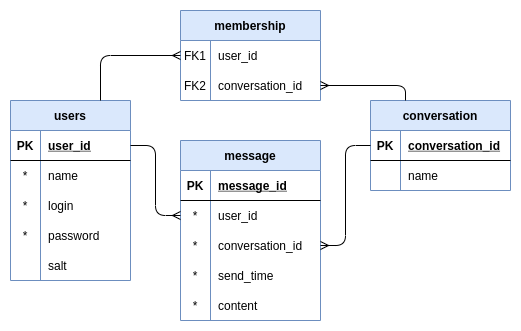
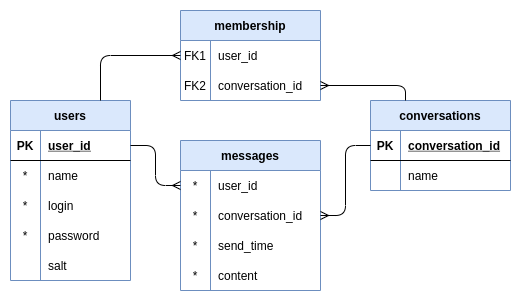
Modyfikacja bazy danych i więcej przykładowych danych

diff --git a/server/src/main/java/pl/hellothere/server/database/DatabaseClient.java b/server/src/main/java/pl/hellothere/server/database/DatabaseClient.java
@@ -88,7 +88,7 @@ public class DatabaseClient implements AutoCloseable {
     public List<Conversation> getConversationList(int user_id) throws DatabaseException {
         try (PreparedStatement s = db.prepareStatement(
                 "select conversation_id, name " +
-                "from conversation " +
+                "from conversations " +
                 "natural join (select conversation_id from membership where user_id = ?) member " +
                 "natural join (select conversation_id, max(send_time) as last_update from messages group by conversation_id ) last " +
                 "order by last_update " +
@@ -131,7 +131,7 @@ public class DatabaseClient implements AutoCloseable {
     }
 
     public ConversationDetails getConversationDetails(int conv_id) throws DatabaseException {
-        try (PreparedStatement s = db.prepareStatement("select * from conversation where conversation_id = ?")) {
+        try (PreparedStatement s = db.prepareStatement("select * from conversations where conversation_id = ?")) {
             s.setInt(1, conv_id);
 
             try (ResultSet r = s.executeQuery()) {

diff --git a/server/src/main/java/pl/hellothere/server/Server.java b/server/src/main/java/pl/hellothere/server/Server.java
@@ -6,7 +6,7 @@ import java.net.ServerSocket;
 
 public class Server {
     private static final String db_address = "jdbc:postgresql://localhost:5432/hellothere";
-    private static final String db_login = "hellothere_server";
+    private static final String db_login = "hellothere";
     private static final String db_password = "password";
     private static final int port = 8374;
 

diff --git a/database/README.md b/database/README.md
@@ -1,5 +1,5 @@
 ## How to setup
 
 - run postgresql server
-- create user "hellothere_server"
+- create user "hellothere"
 - load files create.sql and sample_data.sql
